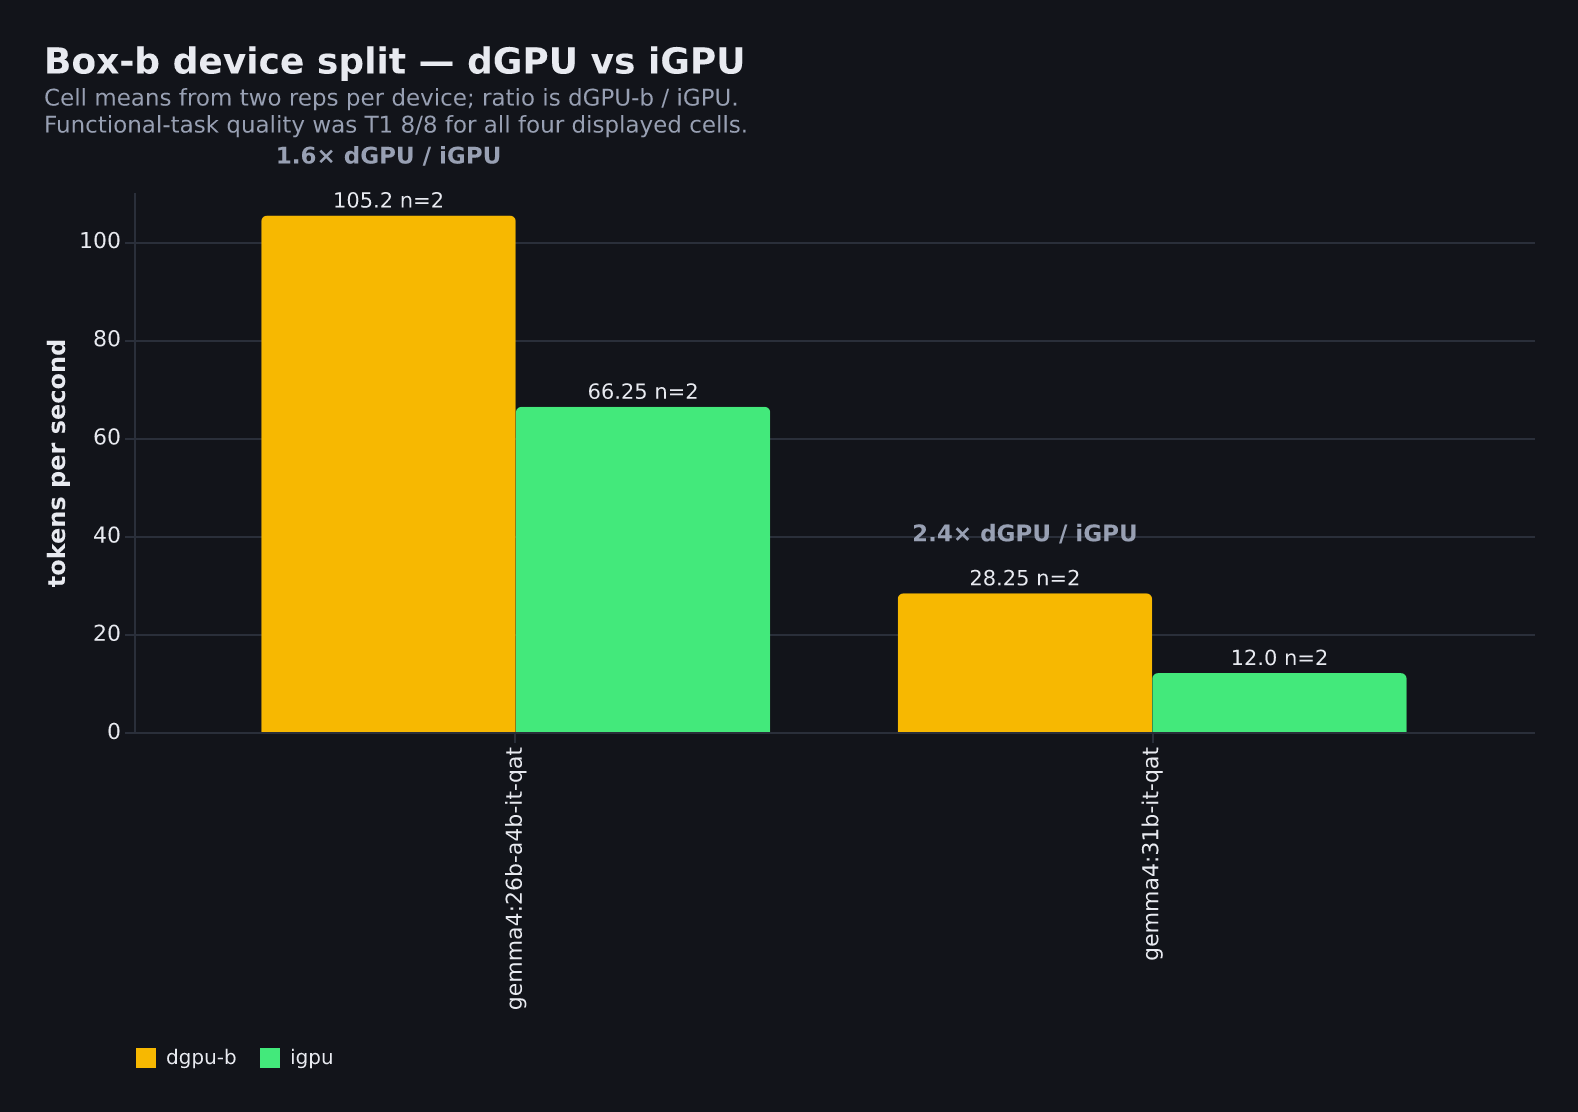
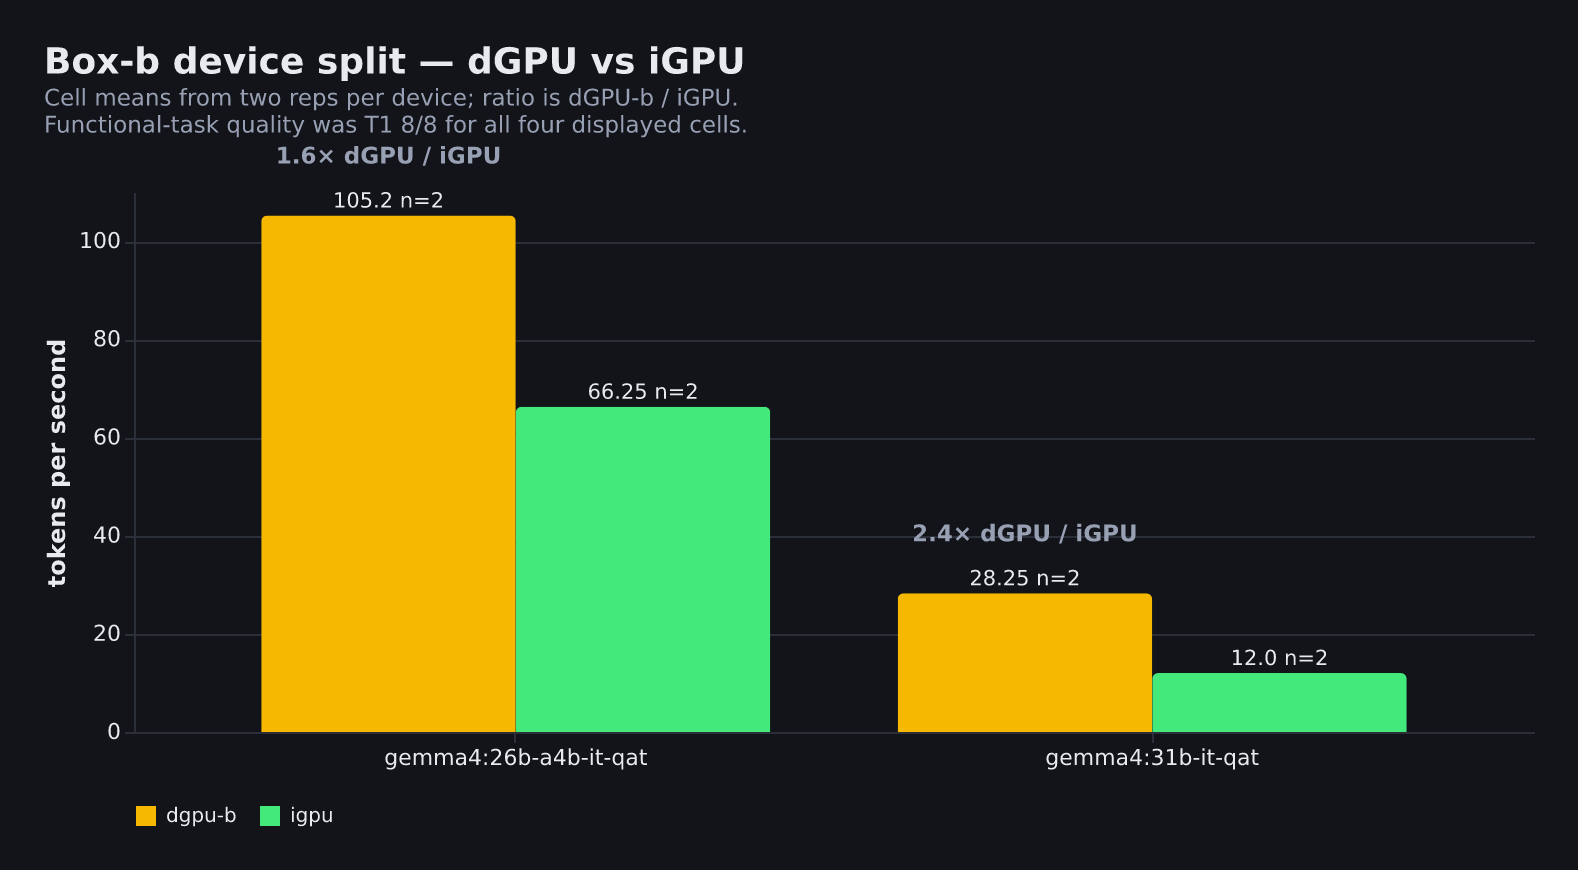
bench: horizontal x-axis labels on the cross-box and device-split charts
Vega-Lite auto-rotates long nominal labels; at 900px/4 categories and 700px/2 there is ample room, and
the rotated labels were being clipped by the figure boundary so model names read as 'gemma4-2…'.
labelAngle 0 + a generous labelLimit. Verified by RENDERING and looking at both PNGs, not by assuming
the spec change took.

Delegated-to: Claude-direct — chart config.

diff --git a/bench/make_charts.py b/bench/make_charts.py
@@ -194,7 +194,7 @@ panel4 = {
                            "Different vendors and serving stacks make this an operating comparison, not a controlled benchmark."],
               "anchor": "start", "color": FG, "fontSize": 18, "subtitleColor": MUTED, "subtitleFontSize": 11.5},
     "width": 900, "height": 280, "data": {"values": p4},
-    "encoding": {"x": {"field": "model", "type": "nominal", "title": None}, "xOffset": {"field": "side"}},
+    "encoding": {"x": {"field": "model", "type": "nominal", "title": None, "axis": {"labelAngle": 0, "labelLimit": 260, "labelFontSize": 11}}, "xOffset": {"field": "side"}},
     "layer": [
         {"mark": {"type": "bar", "cornerRadiusEnd": 3},
          "encoding": {"y": {"field": "tps", "type": "quantitative", "title": "tokens per second", "scale": {"zero": True}},
@@ -215,7 +215,7 @@ panel5 = {
                            "Functional-task quality was T1 8/8 for all four displayed cells."],
               "anchor": "start", "color": FG, "fontSize": 18, "subtitleColor": MUTED, "subtitleFontSize": 11.5},
     "width": 700, "height": 270, "data": {"values": p5},
-    "encoding": {"x": {"field": "model", "type": "nominal", "title": None}, "xOffset": {"field": "device"}},
+    "encoding": {"x": {"field": "model", "type": "nominal", "title": None, "axis": {"labelAngle": 0, "labelLimit": 300, "labelFontSize": 11}}, "xOffset": {"field": "device"}},
     "layer": [
         {"mark": {"type": "bar", "cornerRadiusEnd": 3},
          "encoding": {"y": {"field": "tps", "type": "quantitative", "title": "tokens per second", "scale": {"zero": True}},
